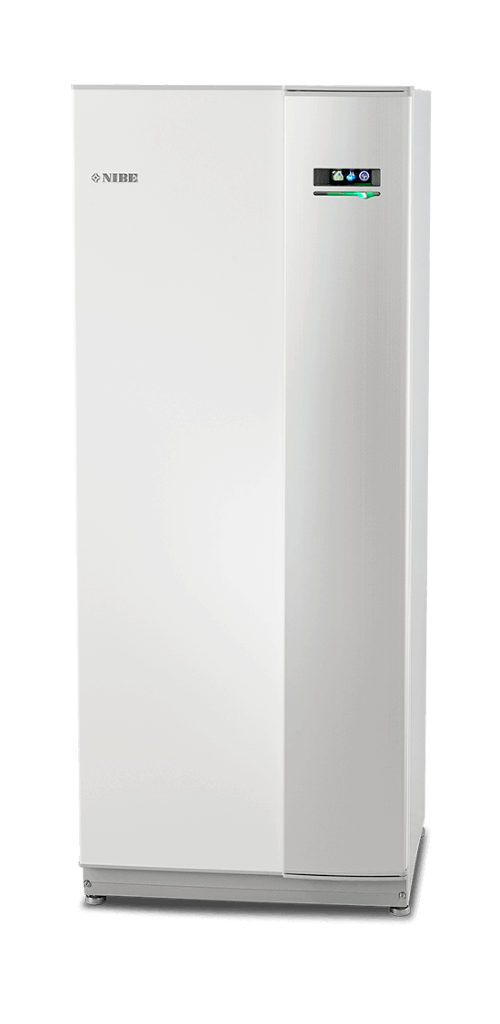
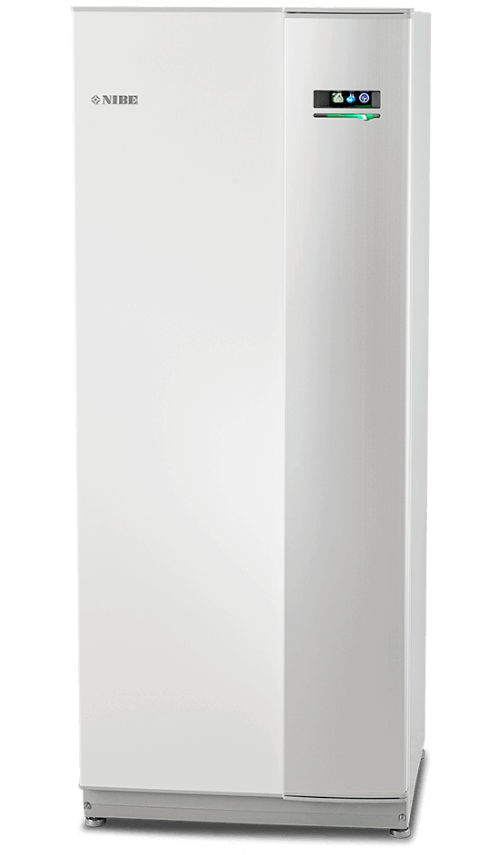
fixed product image sizes

Changed region(s): [[0.15, 0.7906, 0.87, 1.0], [0.15, 0.0, 0.87, 0.2129], [0.18, 0.152, 0.27, 0.1825]]

diff --git a/index.html b/index.html
@@ -1116,11 +1116,8 @@
                 </script>
                 <section id="produktsortiment">
                     <div class="price-container" style=" overflow: hidden;">
-                        <div class="price-product" style="background-image: url(assets/img/NIBE-S1255.png);background-repeat: no-repeat;
-                        background-position: bottom center;
-                        background-size: contain; max-height: 300px; min-height: 200px;">
-                            <!-- <div class="streamer blue">Nyhet!</div> -->
-                            
+                        <div class="price-product">
+                            <a href="javascript:;" onclick="toggle_visibility('product-details1');"><img src="assets/img/NIBE-S1255.png"></a>
                         </div>
                         <div class="price-product-info">
                             <h3>NIBE S1255</h3>
@@ -1164,7 +1161,7 @@
                                 </li>
                             </ul>
                         </div>
-                        <div class="price-container-col" style="margin-top: 0px;">
+                        <div class="price-container-col">
                             <div style="padding-left: 0;">
                                 <span class="item-tech-data__energy-label" style="background-color:#009640;border-left-color:#009640;">A<sup>+++</sup></span>
                             </div>
@@ -1234,7 +1231,7 @@
                                 </li>
                             </ul>
                         </div>
-                        <div class="price-container-col" style="margin-top: 10px;">
+                        <div class="price-container-col">
                             <div style="padding-left: 0;">
                                 <span class="item-tech-data__energy-label" style="background-color:#009640;border-left-color:#009640;">A<sup>+++</sup></span>
                             </div>
@@ -1292,7 +1289,7 @@
                                 </li>
                             </ul>
                         </div>
-                        <div class="price-container-col" style="margin-top: 35px;">
+                        <div class="price-container-col">
                             <div style="padding-left: 0;">
                                 <span class="item-tech-data__energy-label" style="background-color:#009640;border-left-color:#009640;">A<sup>+++</sup></span>
                             </div>
@@ -1349,7 +1346,7 @@
                                 </li>
                             </ul>
                         </div>
-                        <div class="price-container-col" style="margin-top: 35px;">
+                        <div class="price-container-col">
                             <div style="padding-left: 0;">
                                 <span class="item-tech-data__energy-label" style="background-color:#009640;border-left-color:#009640;">A<sup>+++</sup></span>
                             </div>

diff --git a/assets/css/custom.css b/assets/css/custom.css
@@ -4110,6 +4110,7 @@ Copyright (c) 2014 Daniel Eden
 .price-container .price-product img {
   min-width: 80px;
   max-width: 160px;
+  max-height: 325px;
   margin: auto;
 }
 
